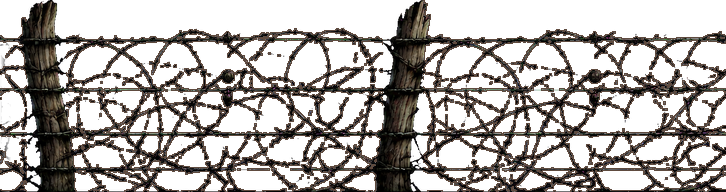
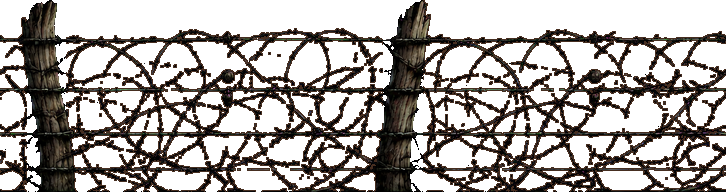
Gelände: Draht wieder als gemalter Spiralstreifen, kurze schräge Stücke und schiefe Pfähle, nicht auf Straßen

diff --git a/entwurf/probe/gelaende_bau.js b/entwurf/probe/gelaende_bau.js
@@ -194,37 +194,13 @@ async function bauen(cfg) {
       const [px, py, zc] = proj(x, y); if (zc <= 1) return;
       const sc = Fk() / zc, h = hW * sc, wd = h * im.width / im.height;
       g.save(); if (hW > 0.6 * SH && hides(x, y)) g.globalAlpha = 0.45;
-      g.translate(px, py + h * 0.015); if (o.flip) g.scale(-1, 1); if (o.filter) g.filter = o.filter;
+      g.translate(px, py + h * 0.015); if (o.rot) g.rotate(o.rot); if (o.flip) g.scale(-1, 1); if (o.filter) g.filter = o.filter;
       g.drawImage(im, -wd * 0.5, -h, wd, h); g.restore();
       if (cfg.punkte) { g.fillStyle = '#E2B04A'; g.beginPath(); g.arc(px, py, 4 * U, 0, 7); g.fill(); }
     } });
     if (!o.noShadow) SHADOW.push(() => { const rr = hW * im.width / im.height * (o.shadeK || 0.42); const gr = w.createRadialGradient(x, y, 0, x, y, rr); gr.addColorStop(0, 'rgba(8,6,4,0.55)'); gr.addColorStop(1, 'rgba(8,6,4,0)'); w.save(); w.translate(x, y); w.scale(1, 0.5); w.translate(-x, -y); w.fillStyle = gr; w.beginPath(); w.arc(x, y, rr, 0, 7); w.fill(); w.restore(); });
   }
   const flipR = (c, r, k) => hrnd(c, r, k) < 0.5;
-  // Drahtzaun A→B: Pfähle etwa alle 0,5 R (Aufsteller), dazwischen drei gespannte Drähte mit Stacheln, dunkel und ohne Fläche dahinter
-  function zaun(A, B, sd) {
-    const len = Math.hypot(B[0] - A[0], B[1] - A[1]), n = Math.max(1, Math.round(len / (R * 0.5))), hP = 0.55 * SH, P = [];
-    for (let i = 0; i <= n; i++) { const t = i / n, x = A[0] + (B[0] - A[0]) * t, y = A[1] + (B[1] - A[1]) * t, im = PFAEHLE[(sd + i * 3) % PFAEHLE.length], h = hP * (0.88 + hrnd(sd, i, 1) * 0.2);
-      P.push([x, y, h, hrnd(sd, i, 2) < 0.5]); stand(im, x, y, h, { flip: P[i][3], shadeK: 0.5 }); }
-    for (let i = 0; i < n; i++) {
-      const [x1, y1, h1] = P[i], [x2, y2, h2] = P[i + 1];
-      DRAW.push({ y: (y1 + y2) / 2 + R * 0.001, f: () => {
-        const a = proj(x1, y1), b = proj(x2, y2); if (a[2] <= 1 || b[2] <= 1) return;
-        const sa = Fk() / a[2], sb = Fk() / b[2], lw = Math.max(1, 0.011 * R * (sa + sb) / 2);
-        g.save(); g.lineCap = 'round'; g.strokeStyle = '#1d1510'; g.lineWidth = lw;
-        for (const f of [0.28, 0.55, 0.82]) {   // drei Drähte, leicht durchhängend
-          const ya = a[1] - h1 * sa * f, yb = b[1] - h2 * sb * f, mx = (a[0] + b[0]) / 2, my = (ya + yb) / 2 + 0.035 * SH * (sa + sb) / 2;
-          g.beginPath(); g.moveTo(a[0], ya); g.quadraticCurveTo(mx, my, b[0], yb); g.stroke();
-          const nb = Math.max(2, Math.round(Math.hypot(b[0] - a[0], yb - ya) / (9 * U)));   // Stacheln: kleine Kreuze entlang des Drahts
-          g.beginPath();
-          for (let j = 1; j < nb; j++) { const t = j / nb, x = (1 - t) * (1 - t) * a[0] + 2 * (1 - t) * t * mx + t * t * b[0], y = (1 - t) * (1 - t) * ya + 2 * (1 - t) * t * my + t * t * yb, d = lw * 1.8;
-            g.moveTo(x - d, y - d); g.lineTo(x + d, y + d); g.moveTo(x - d, y + d); g.lineTo(x + d, y - d); }
-          g.lineWidth = lw * 0.8; g.stroke(); g.lineWidth = lw;
-        }
-        g.restore();
-      } });
-    }
-  }
 
   // Graben
   // Zickzack wie echte Gräben (Schulterwehren): der Zug wird alle ZZ_STEP neu gesetzt und abwechselnd um ±ZZ_A seitlich versetzt.
@@ -324,9 +300,19 @@ async function bauen(cfg) {
       for (const [e, kk, k] of [[4, 0.5, 1], [1, 0.45, 2]]) stand(SPERREN[Math.floor(q(k) * SPERREN.length)], ...corner(c, r, e, kk), 0.8 * SH * (0.85 + q(k + 4) * 0.25), { flip: flipR(c, r, k + 8) });
     } else if (t === 'bunker') {
       stand(BUNKER[q(1) < 0.5 ? 0 : 1], hx, hy + R * 0.25, 1.15 * SH, { flip: flipR(c, r, 2), shadeK: 0.45 });
-    } else if (t === 'wire') {   // Drahtgürtel: zwei Zäune je Feld, quer zur Blickrichtung, leicht schräg: einzelne Pfähle, dazwischen gespannter Draht
-      for (const [k, dy] of [[1, -0.36], [2, 0.3]]) { const ang = (q(k) - 0.5) * 0.6, L = R * (0.72 + q(k + 5) * 0.2), cx = hx + (q(k + 9) - 0.5) * R * 0.3, cy = hy + dy * R;
-        zaun([cx - Math.cos(ang) * L, cy - Math.sin(ang) * L], [cx + Math.cos(ang) * L, cy + Math.sin(ang) * L], c * 31 + r * 7 + k); }
+    } else if (t === 'wire') {   // Drahtfeld: 1–2 kurze Stücke des gemalten Spiralstreifens, schräg und versetzt, dazu einzelne schiefe Pfähle; nichts auf Straßen
+      const aufWeg = (x, y) => ROADS.some(rd => distTo([x, y], rd) < R * 0.42);
+      const n = q(1) < 0.45 ? 1 : 2;
+      for (let k = 0; k < n; k++) {
+        const ang = (q(k * 7 + 2) - 0.5) * 1.1, L = R * (0.32 + q(k * 7 + 3) * 0.3), cx = hx + (q(k * 7 + 4) - 0.5) * R * 0.9, cy = hy + (n === 1 ? (q(k * 7 + 5) - 0.5) * 0.5 : (k ? 0.3 : -0.32) + (q(k * 7 + 5) - 0.5) * 0.2) * R;
+        wall(IM.draht, [cx - Math.cos(ang) * L, cy - Math.sin(ang) * L], [cx + Math.cos(ang) * L, cy + Math.sin(ang) * L], (0.5 + q(k * 7 + 6) * 0.15) * SH,
+          { u0: q(k * 7 + 8) * 5, shade: 0.3, shadeW: 0.12, skip: aufWeg });
+      }
+      for (let k = 0; k < 1 + Math.floor(q(30) * 2.2); k++) {   // einzelne schiefe Pfähle, teils ohne Draht
+        const x = hx + (q(k * 5 + 31) - 0.5) * R * 1.2, y = hy + (q(k * 5 + 32) - 0.5) * R * 1.1;
+        if (aufWeg(x, y)) continue;
+        stand(PFAEHLE[Math.floor(q(k * 5 + 33) * PFAEHLE.length)], x, y, 0.55 * SH * (0.7 + q(k * 5 + 34) * 0.4), { rot: (q(k * 5 + 35) - 0.5) * 0.7, flip: flipR(c, r, k + 40), shadeK: 0.5 });
+      }
     } else if (t === 'barrikade') {
       const ang = (q(1) - 0.5) * 0.5; wall(IM.barrikade, [hx - Math.cos(ang) * R * 0.75, hy - Math.sin(ang) * R * 0.75 - R * 0.15], [hx + Math.cos(ang) * R * 0.75, hy + Math.sin(ang) * R * 0.75 - R * 0.15], 0.55 * SH, { u0: q(2) * 3 });
     } else if (t === 'bridge') {   // Brücke: Bohlen quer über das Wasser

diff --git a/tools/gelaende_cut.py b/tools/gelaende_cut.py
@@ -197,6 +197,8 @@ def pfaehle_ausduennen(name, jede=2):
     neu = ndimage.binary_dilation(draht, structure=np.ones((3, 3), bool)) & ~draht
     neu[:, pf] = False
     q[neu, 3] = np.maximum(q[neu, 3], 220); q[neu, :3] = [70, 46, 32]
+    # kein Schleier: halbdurchsichtige Reste zwischen den Drähten ganz weg, Draht und Pfähle voll deckend
+    q[..., 3] = np.where(q[..., 3] < 140, 0, 255)
     q = np.clip(q, 0, 255).astype(np.uint8)
     print(f'  {len(grp)} Pfähle, {sum(1 for k in range(len(grp)) if k % jede)} entfernt → Breite {q.shape[1]} px')
     out = Image.fromarray(q, 'RGBA'); out.save(OUT / f'{name}.png'); out.save(PROBE / f'g_{name}.webp', quality=88, method=6)

diff --git a/STYLE.md b/STYLE.md
@@ -196,7 +196,7 @@ Für alle Bilder: reiner Magenta-Hintergrund (#FF00FF), PNG, Tuschkontur und Far
   - Gräben werden aus den Grabenfeldern zu Zügen verbunden; Züge am Kartenrand laufen bis zur Kante weiter (ohne Erdwall).
   - **Gräben im Zickzack** (Schulterwehren, seit 2026-11-16, Schalter `zickzack`): Der Zug wird alle 0,87 R neu gesetzt und abwechselnd um ±0,3 R seitlich versetzt. Das ist nur Darstellung innerhalb der Grabenfelder; welche Felder Graben sind, bestimmen weiter die Kartendaten (Regeln unverändert).
   - **Brustwehr zur Feindseite:** Bei Stücken, die in die Tiefe laufen, steht auf der Feindseite zusätzlich eine aufrechte Sandsack-Brustwehr (Kante vorn, 0,4 SH), 0,24 R weiter außen. Feindseite: Konkordat nach Osten, Aschenwacht nach Westen; Besitzer nach Aufstellungszone.
-  - **Draht** (seit 2026-11-16 ohne Streifenbild): einzelne Pfähle (aus dem Drahtbogen geschnitten, `draht_pfahl_1–4`) etwa alle 0,5 R, dazwischen drei gespannte, leicht durchhängende Drähte mit Stacheln, vom Code gezeichnet, dunkel, ohne Fläche dahinter. Zwei Zäune je Feld.
+  - **Draht:** gemalter Spiralstreifen (`draht`, jeder zweite Pfahl herausgeschnitten, Drähte um 1 px verdickt, voll deckend, ohne halbdurchsichtige Fläche). Je Drahtfeld 1–2 kurze Stücke (0,6–1,2 R), schräg (bis ±30°) und versetzt, dazu 1–3 einzelne schiefe Pfähle (`draht_pfahl_1–4`, bis ±20° geneigt). Nichts auf Straßen und Wegen. Wirr, nicht in Reihen.
   - **Standringe:** nah dezent wie bisher. Herausgezoomt (Feldradius unter 130 px auf dem Schirm) werden sie kräftiger, heller, mit dunklem Saum und bis 10 % größer, damit man die Trupps findet.
   - Flaches Detail „Spuren“ (`flach_details_8`) nicht verwenden: wirkt als dunkles Rechteck.
   - **Panzersperren** (Feldart `sperre`): zwei Teile je Feld. Großer Trichter: zweite Variante auf Trichterfeldern.
